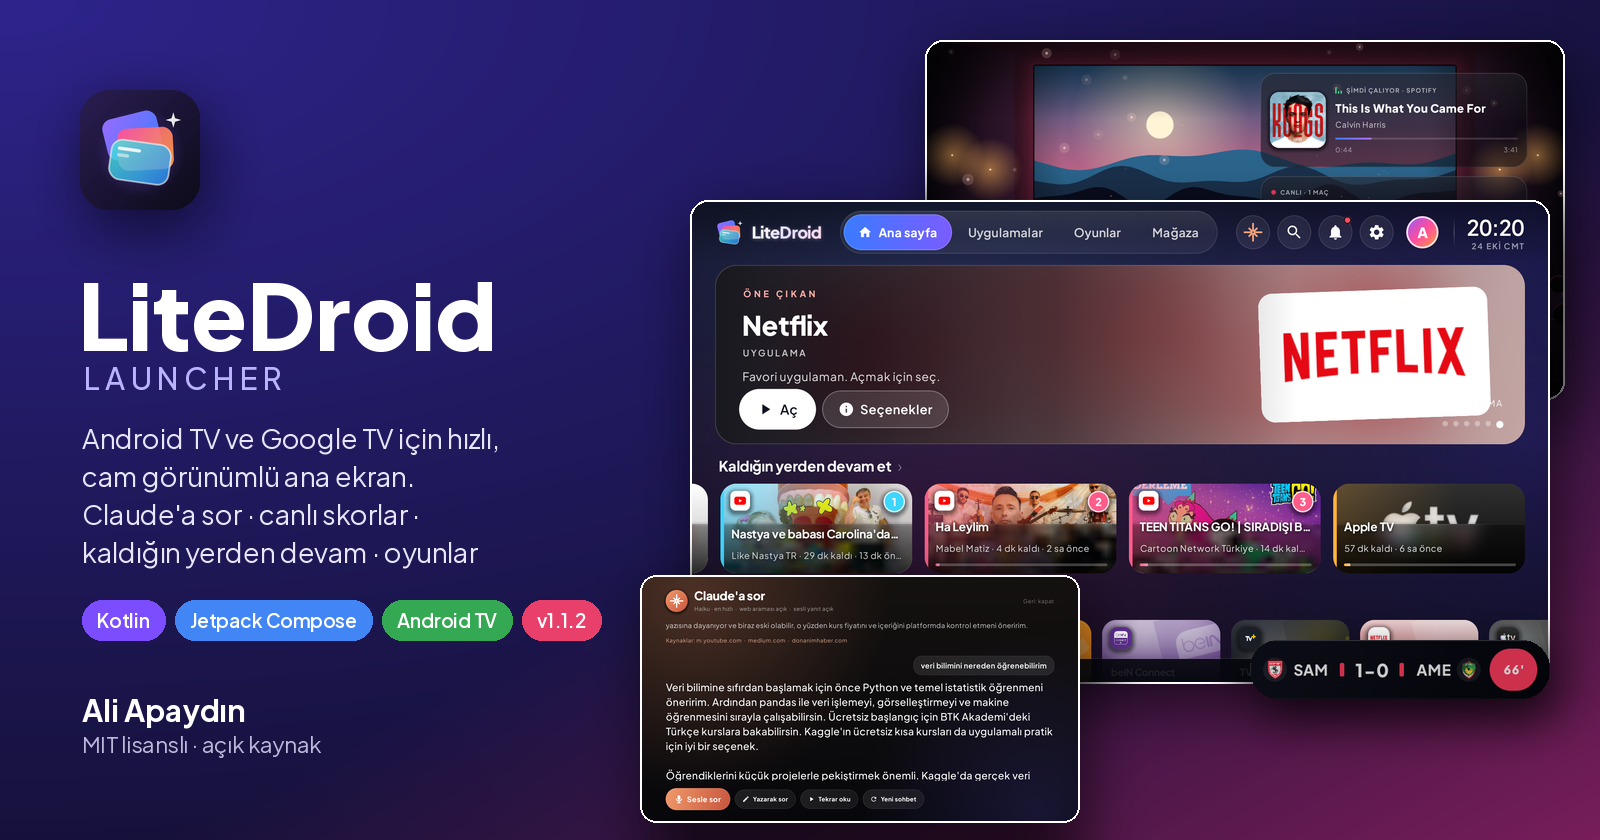
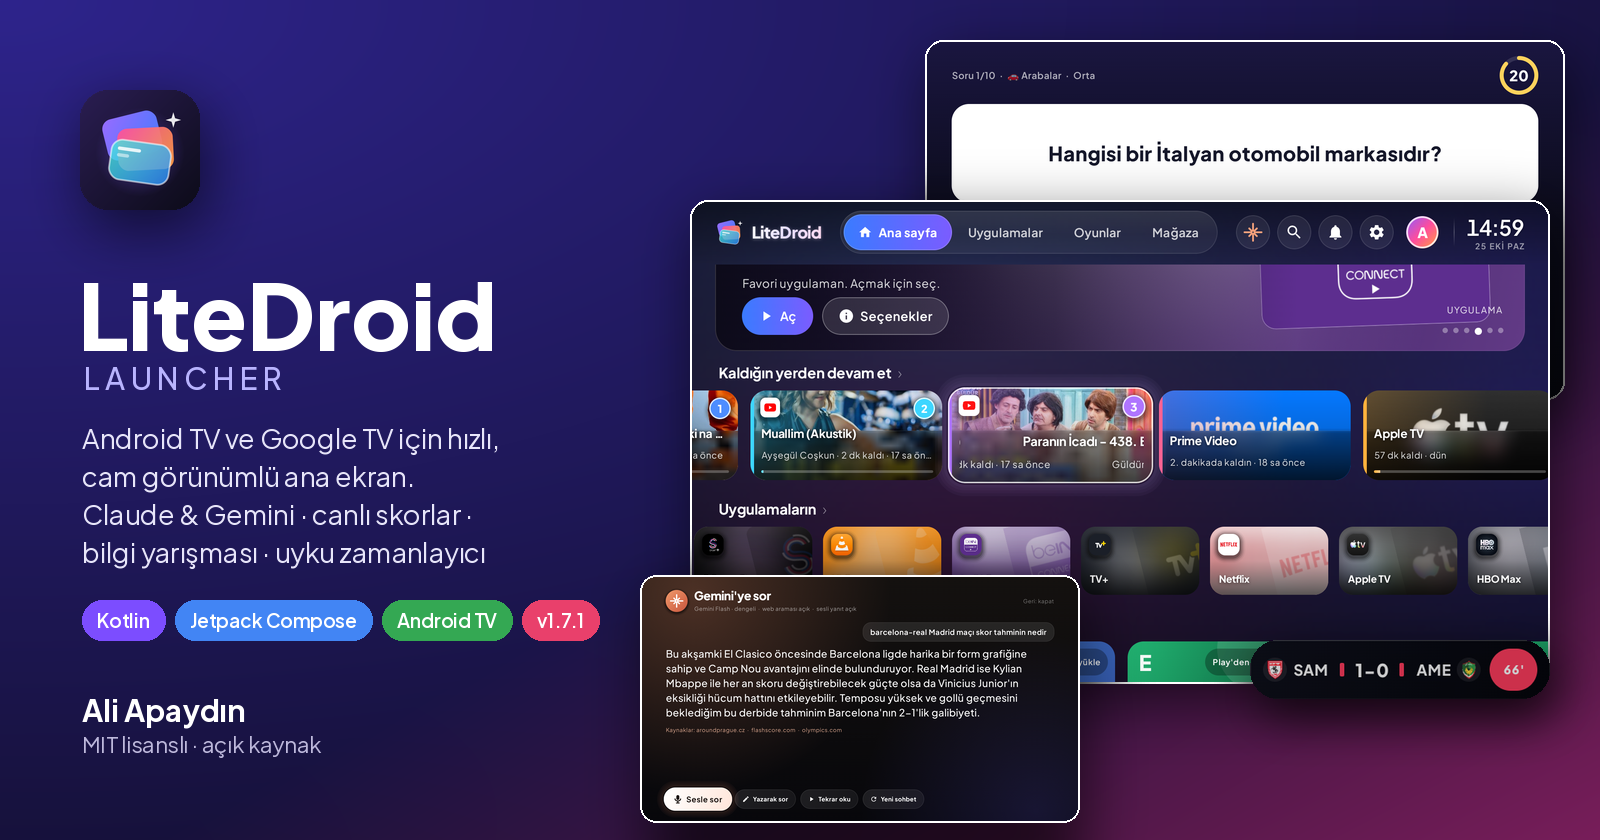
1.7.1: Gemini AQ. anahtarları, yeni ekran görüntüleri ve README (#13)
* 1.7.1 prep: accept AQ.-style Gemini keys in hints, explain ACCESS_TOKEN_TYPE_UNSUPPORTED

Claude-Session: https://claude.ai/code/session_01PQP6bMUB9xKZLXqUEF8aZa

* 1.7.1: new screenshots, hero and README sections

Claude-Session: https://claude.ai/code/session_01PQP6bMUB9xKZLXqUEF8aZa

---------

Changed region(s): [[0.4062, 0.031, 1.0, 0.9905], [0.0312, 0.5881, 0.3125, 0.681], [0.3438, 0.7119, 0.375, 0.7429]]

diff --git a/app/src/main/java/dev/litedroid/launcher/ui/HomeScreen.kt b/app/src/main/java/dev/litedroid/launcher/ui/HomeScreen.kt
@@ -961,8 +961,8 @@ private fun HomeContent(vm: LauncherViewModel) {
                             "Your key from console.anthropic.com → API Keys (sk-ant-api03-…). Typing with the remote is tedious, you can send it from a computer: $CMD_KEY",
                         )
                         TextTarget.GEMINI_KEY -> tx(
-                            "aistudio.google.com → Get API key'den aldığın anahtar (AIza…). Bilgisayardan da gönderebilirsin: $CMD_GEMINI_KEY",
-                            "Your key from aistudio.google.com → Get API key (AIza…). You can also send it from a computer: $CMD_GEMINI_KEY",
+                            "aistudio.google.com → Get API key'den aldığın anahtar (AQ.… ya da AIza… ile başlar). Bilgisayardan da gönderebilirsin: $CMD_GEMINI_KEY",
+                            "Your key from aistudio.google.com → Get API key (starts with AQ.… or AIza…). You can also send it from a computer: $CMD_GEMINI_KEY",
                         )
                         TextTarget.CLAUDE_QUESTION -> tx("Sorunu yaz, ${settings.aiProvider.label} cevaplasın", "Type your question for ${settings.aiProvider.label}")
                     },

diff --git a/app/src/main/java/dev/litedroid/launcher/data/GeminiClient.kt b/app/src/main/java/dev/litedroid/launcher/data/GeminiClient.kt
@@ -57,7 +57,12 @@ object GeminiClient {
             if (code !in 200..299) {
                 val err = runCatching { conn.errorStream?.bufferedReader()?.use { it.readText() } }.getOrNull().orEmpty()
                 val e = runCatching { JSONObject(err).getJSONObject("error") }.getOrNull()
-                val msg = e?.optString("message")?.takeIf { it.isNotBlank() } ?: "HTTP $code"
+                val msg = when {
+                    // Bazı hesaplarda yeni "AQ." anahtarlar bu uç noktada reddediliyor
+                    err.contains("ACCESS_TOKEN_TYPE_UNSUPPORTED") ->
+                        "Google bu anahtarı Gemini API için kabul etmedi (ACCESS_TOKEN_TYPE_UNSUPPORTED). AI Studio'da yeni bir anahtar oluşturup tekrar dene."
+                    else -> e?.optString("message")?.takeIf { it.isNotBlank() } ?: "HTTP $code"
+                }
                 val auth = code == 401 || code == 403 || err.contains("API_KEY_INVALID") || err.contains("API key not valid")
                 Log.w(TAG, "HTTP $code $err")
                 emit(ClaudeEvent.Failed(msg, authProblem = auth))

diff --git a/app/src/main/java/dev/litedroid/launcher/data/Changelog.kt b/app/src/main/java/dev/litedroid/launcher/data/Changelog.kt
@@ -10,6 +10,15 @@ object Changelog {
     val releases: List<Release>
         get() = listOf(
             Release(
+                "1.7.1",
+                tx("Gemini anahtarları ve yeni ekran görüntüleri", "Gemini keys and new screenshots"),
+                listOf(
+                    tx("Google'ın yeni \"AQ.\" ile başlayan Gemini anahtarları için ipuçları güncellendi, anlaşılır hata mesajı eklendi.",
+                        "Hints updated for Google's new Gemini keys starting with \"AQ.\", with a clear error message."),
+                    tx("GitHub sayfası yeni ekran görüntüleri ve kapak görseliyle güncellendi.", "The GitHub page got new screenshots and a new cover image."),
+                ),
+            ),
+            Release(
                 "1.7.0",
                 tx("Daha akıcı sesli soru ve Gemini", "Smoother voice questions and Gemini"),
                 listOf(

diff --git a/app/src/main/java/dev/litedroid/launcher/MainActivity.kt b/app/src/main/java/dev/litedroid/launcher/MainActivity.kt
@@ -48,7 +48,7 @@ class MainActivity : ComponentActivity() {
      * adb shell am start -n dev.litedroid.launcher/.MainActivity --es claude_key "sk-ant-api03-..."
      */
     private fun handleKeyIntent(intent: Intent?): Boolean {
-        // Gemini anahtarı: --es gemini_key "AIza..."
+        // Gemini anahtarı: --es gemini_key "AQ.Ab..." (ya da eski biçim "AIza...")
         intent?.getStringExtra(EXTRA_GEMINI_KEY)?.trim()?.takeIf { it.isNotEmpty() }?.let { gKey ->
             intent.removeExtra(EXTRA_GEMINI_KEY)
             viewModel.updateSettings { it.copy(geminiKey = gKey) }

diff --git a/README.md b/README.md
@@ -8,7 +8,7 @@
 </p>
 
 <p align="center">
-  <img alt="Sürüm" src="https://img.shields.io/badge/s%C3%BCr%C3%BCm-1.7.0-ff5c8a?style=for-the-badge">
+  <img alt="Sürüm" src="https://img.shields.io/badge/s%C3%BCr%C3%BCm-1.7.1-ff5c8a?style=for-the-badge">
   <img alt="Platform" src="https://img.shields.io/badge/Android%20TV%20%7C%20Google%20TV-3ddc84?style=for-the-badge&logo=androidtv&logoColor=white">
   <img alt="Kotlin" src="https://img.shields.io/badge/Kotlin-2.0-7f52ff?style=for-the-badge&logo=kotlin&logoColor=white">
   <img alt="Jetpack Compose" src="https://img.shields.io/badge/Jetpack%20Compose-4285f4?style=for-the-badge&logo=jetpackcompose&logoColor=white">
@@ -28,7 +28,7 @@
 
 LiteDroid bir hafta sonu sorusuyla başladı: *"Chromecast with Google TV'm Apple TV gibi hissettirebilir mi?"* Sonra Kotlin ve Jetpack Compose ile sıfırdan yazılmış tam bir launcher'a dönüştü.
 
-Standart ana ekranın yerine buzlu cam menüler, uygulamalar arası çalışan bir "kaldığın yerden devam et" rafı, sesle soru sorabildiğin bir yapay zekâ asistanı, maç izlerken köşede duran canlı skorlar, kumandayla oynanan oyunlar ve kodla çizilmiş bir ekran koruyucu getiriyor. Bunların hepsini mütevazı TV donanımında akıcı kalarak yapıyor.
+Standart ana ekranın yerine buzlu cam menüler, uygulamalar arası çalışan bir "kaldığın yerden devam et" rafı, sesle soru sorabildiğin bir yapay zekâ asistanı (Claude ya da Gemini), maç izlerken köşede duran canlı skorlar, telefonlarla oynanan bir bilgi yarışması, uyku zamanlayıcısı, kumandayla oynanan oyunlar ve kodla çizilmiş bir ekran koruyucu getiriyor. Bunların hepsini mütevazı TV donanımında akıcı kalarak yapıyor.
 
 ## ✨ Özellikler
 
@@ -54,22 +54,26 @@ Standart ana ekranın yerine buzlu cam menüler, uygulamalar arası çalışan b
   - YouTube videoyu **kaldığı saniyeden** açar.
   - Tam içerik bağlantısı olmayan uygulamalar **temiz bir başlangıçla** açılır, yarım kalmış bir ekrana takılmazsın.
 
-### ✨ Claude'a sor
+### ✨ Claude'a / Gemini'ye sor
 
-<p align="center"><img src="docs/screenshots/ask-claude.png" alt="Claude'a sor" width="100%"></p>
+| Konuşurken | Cevap |
+|---|---|
+| ![Dinliyor](docs/screenshots/ask-listening.png) | ![Gemini cevabı](docs/screenshots/ask-gemini.png) |
 
 - Üst bardaki ✦ düğmesine bas. Mikrofon hazır olunca **"Şimdi konuş"** yazar ve söylediklerin konuşurken ekranda canlı görünür.
 - Cevap ekranda büyük yazıyla akarak gelir. **İlk cümleden itibaren sesli okunmaya başlar**, sonuna kadar beklemez. Yeni soru sormak için bastığında önceki okuma anında durur.
 - Güncel sorularda (bu akşamın maçları, haberler, hava, vizyondaki filmler) **web'de arar** ve kullandığı **kaynakları** altta gösterir.
 - Takip soruları bağlamı korur. İstersen yazarak da sorabilirsin.
 - **Claude ya da Gemini:** İkisinin de anahtarını girip Ayarlar → Claude'a sor → Yapay zekâ'dan istediğine geçebilirsin. Claude için Haiku ya da Sonnet, Gemini için Flash-Lite ya da Flash modelini seçebilirsin.
-- Kendi Anthropic API anahtarınla çalışır. Anahtar sadece TV'de saklanır ve doğrudan `api.anthropic.com`'a gider. Kurulumu aşağıda: [Claude'a sor kurulumu](#claudea-sor-kurulumu).
+- Kendi API anahtarınla çalışır. Anahtar sadece TV'de saklanır ve doğrudan `api.anthropic.com`'a ya da Google'a gider. Kurulumu aşağıda: [Claude'a sor kurulumu](#claudea-sor-kurulumu).
 
 ### ⚽ Canlı skorlar
 
 Süper Lig, Premier League, LaLiga, Serie A, Bundesliga, Ligue 1, **Şampiyonlar Ligi, Avrupa Ligi ve Konferans Ligi** varsayılan olarak takipte. Hangi ligleri izleyeceğini ayarlardan seçersin.
 
 **Takımları seç:** Ayarlar → Canlı skorlar → Takımları seç. Her ligden yalnızca istediğin takımları takip edebilirsin, mesela Süper Lig'den Beşiktaş ve Galatasaray, LaLiga'dan Real Madrid. Tümünü seçebilir, seçimi kaldırabilir ya da tek tek seçebilirsin. Skor kartı, şerit, menü, ekran koruyucu ve gol bildirimleri sadece bu takımların maçlarını gösterir.
+
+<p align="center"><img src="docs/screenshots/teams.png" alt="Takım seçici" width="100%"></p>
 
 <p align="center"><img src="docs/screenshots/score-strip-context.png" alt="Prime Video izlerken köşedeki skor şeridi" width="80%"></p>
 
@@ -84,12 +88,16 @@ Süper Lig, Premier League, LaLiga, Serie A, Bundesliga, Ligue 1, **Şampiyonlar
 
 ### 🎛 Her uygulamanın üstünde yüzen menü
 
+<p align="center"><img src="docs/screenshots/floating-menu.png" alt="Prime Video'nun üstünde yüzen menü" width="100%"></p>
+
 - Netflix, YouTube ya da başka bir şey açıkken kumandada **Geri'ye iki kez hızlıca bas**.
 - Sağdan kayarak sade bir LiteDroid menüsü açılır. İçinde saat, hava durumu, çalan müziğin kontrolleri, uyku zamanlayıcısı, skor şeridi ayarları, bugünün maçları ve Ana ekran / Claude / Kapat kısayolları var.
 - **Tek basış normal Geri olarak çalışmaya devam eder.**
 - Bir kez açman gerekiyor: **Android Ayarları → Erişilebilirlik → LiteDroid kumanda kısayolu**. Servis yalnızca tuş basışlarını ve öndeki uygulamanın adını görür.
 
 ### 😴 Uyku zamanlayıcısı
+
+<p align="center"><img src="docs/screenshots/sleep-timer.png" alt="Uyku zamanlayıcısı kuruldu bildirimi" width="100%"></p>
 
 - Ayarlar → Uyku zamanlayıcısı'ndan **süreyle** (15–120 dk) ya da **belirli bir saatte** kapan. Yüzen menüden ve hızlı panelden de tek tuşla kurulur.
 - Kapanmaya 45, 30, 15 ve 5 dakika kala sağ altta 5 saniyelik bir uyarı çıkar.
@@ -128,6 +136,14 @@ Kahoot tarzı bir yarışma: **Oyunlar → Bilgi Yarışması**.
 - Kimin cevapladığı anlık görünür. Hızlı ve doğru cevap daha çok puan getirir, üst üste doğru bilenlere seri bonusu var.
 - Her sorudan sonra puan tablosu kayarak yeniden sıralanır, en sonda kürsü ve konfeti var.
 
+| Lobi: QR kodla katıl | Soru |
+|---|---|
+| ![Yarışma lobisi](docs/screenshots/quiz-lobby.png) | ![Soru](docs/screenshots/quiz-question.png) |
+| **Puan durumu** | **Kürsü** |
+| ![Puan durumu](docs/screenshots/quiz-board.png) | ![Kürsü](docs/screenshots/quiz-podium.png) |
+
+<p align="center"><img src="docs/screenshots/quiz-phones.png" alt="Telefondan katılma, cevap verme ve sonuç" width="85%"></p>
+
 ### 🎮 Kumandaya göre yapılmış altı oyun
 
 | Oyunlar | Yılan | Sudoku |
@@ -151,6 +167,8 @@ Google Play'den yüklediğin oyunlar altta ayrı bir rafta durur.
 
 Ayarlar solda sekmelere ayrılmıştır: **Görünüm, Profil, Hava durumu, Ses, Ekran koruyucu, Canlı skorlar, Claude'a sor, İçerik ve gizlilik** ve **Diğer**. Odaktaki satırın açıklaması altta görünür, kumandayla aradığını bulmak kolaydır. **Diğer → Sürüm notları**'nda ilk sürümden bugüne tüm yenilikler sürüm sürüm listelenir.
 
+<p align="center"><img src="docs/screenshots/release-notes.png" alt="Sürüm notları" width="100%"></p>
+
 ### 📊 Kullanım raporu
 
 **Ayarlar → İçerik ve gizlilik → Kullanım raporu** (kullanım istatistikleri izni gerekir):
@@ -158,6 +176,10 @@ Ayarlar solda sekmelere ayrılmıştır: **Görünüm, Profil, Hava durumu, Ses,
 - Uygulama sıralaması: toplam süre, yüzde payı, açılış sayısı, en uzun oturum ve son kullanım saati.
 - Saatlere göre dağılım, son 7 günün grafiği ve en yoğun saat.
 - Ana ekran ve ekran koruyucuda geçen süre sayılmaz.
+
+| Özet ve grafikler | Uygulamalar |
+|---|---|
+| ![Kullanım raporu](docs/screenshots/usage-report.png) | ![Uygulama kartları](docs/screenshots/usage-report-apps.png) |
 
 ### Ve diğerleri
 
@@ -246,9 +268,9 @@ Android TV bu izinleri arayüzünde göstermediği için bir kez adb ile verilir
    İstersen **Ayarlar → Claude'a sor → API anahtarı**'ndan da girebilirsin.
 3. Üst bardaki ✦ düğmesine bas ve sor. İlk seferde mikrofon izni sorulur, **İzin ver** de. İstersen izni komutla da verebilirsin: `adb shell pm grant dev.litedroid.launcher android.permission.RECORD_AUDIO`
 
-**Gemini kullanmak için:** [aistudio.google.com](https://aistudio.google.com) → **Get API key** ile bir anahtar al (`AIza…`). Anahtarı şu komutla gönder, sonra Ayarlar → Claude'a sor → **Yapay zekâ: Gemini** seç:
+**Gemini kullanmak için:** [aistudio.google.com](https://aistudio.google.com) → **Get API key** ile bir anahtar al. Yeni anahtarlar `AQ.` ile, eskiler `AIza` ile başlar, ikisi de çalışır. Anahtarı şu komutla gönder, sonra Ayarlar → Claude'a sor → **Yapay zekâ: Gemini** seç:
 ```bash
-adb shell am start -n dev.litedroid.launcher/.MainActivity --es gemini_key "AIza..."
+adb shell am start -n dev.litedroid.launcher/.MainActivity --es gemini_key "AQ.Ab..."
 ```
 
 > Anahtarını kimseyle paylaşma. Ekran görüntüsünde ya da bir yerde göründüyse konsoldan silip yenisini oluştur.

diff --git a/README.en.md b/README.en.md
@@ -8,7 +8,7 @@
 </p>
 
 <p align="center">
-  <img alt="Version" src="https://img.shields.io/badge/version-1.7.0-ff5c8a?style=for-the-badge">
+  <img alt="Version" src="https://img.shields.io/badge/version-1.7.1-ff5c8a?style=for-the-badge">
   <img alt="Platform" src="https://img.shields.io/badge/Android%20TV%20%7C%20Google%20TV-3ddc84?style=for-the-badge&logo=androidtv&logoColor=white">
   <img alt="Kotlin" src="https://img.shields.io/badge/Kotlin-2.0-7f52ff?style=for-the-badge&logo=kotlin&logoColor=white">
   <img alt="Jetpack Compose" src="https://img.shields.io/badge/Jetpack%20Compose-4285f4?style=for-the-badge&logo=jetpackcompose&logoColor=white">
@@ -33,8 +33,18 @@ LiteDroid started as a weekend question — *"can my Chromecast with Google TV f
 | Modern home | Apps |
 |---|---|
 | ![Modern home](docs/screenshots/modern-home.png) | ![Apps](docs/screenshots/apps.png) |
-| **Ask Claude** | **Quick panel** |
-| ![Ask Claude](docs/screenshots/ask-claude.png) | ![Quick panel](docs/screenshots/quick-panel.png) |
+| **Ask Gemini / Claude (listening)** | **Answer** |
+| ![Listening](docs/screenshots/ask-listening.png) | ![Gemini answer](docs/screenshots/ask-gemini.png) |
+| **Floating menu over Prime Video** | **Sleep timer** |
+| ![Floating menu](docs/screenshots/floating-menu.png) | ![Sleep timer](docs/screenshots/sleep-timer.png) |
+| **Quiz Night lobby** | **Quiz question** |
+| ![Quiz lobby](docs/screenshots/quiz-lobby.png) | ![Quiz question](docs/screenshots/quiz-question.png) |
+| **Leaderboard** | **Podium** |
+| ![Leaderboard](docs/screenshots/quiz-board.png) | ![Podium](docs/screenshots/quiz-podium.png) |
+| **Team picker** | **Usage report** |
+| ![Teams](docs/screenshots/teams.png) | ![Usage report](docs/screenshots/usage-report.png) |
+| **Quick panel** | **Release notes** |
+| ![Quick panel](docs/screenshots/quick-panel.png) | ![Release notes](docs/screenshots/release-notes.png) |
 | **Score strip over Prime Video** | **Screensaver widgets** |
 | ![Score strip](docs/screenshots/score-strip-context.png) | ![Screensaver](docs/screenshots/screensaver.png) |
 | **Built-in games** | **Sudoku** |

diff --git a/CHANGELOG.md b/CHANGELOG.md
@@ -1,5 +1,9 @@
 # Changelog
 
+## 1.7.1
+- Gemini keys: hints mention the new `AQ.` format (the client never checked the prefix); a readable message for `ACCESS_TOKEN_TYPE_UNSUPPORTED`.
+- README: new hero and screenshots (Gemini, listening panel, floating menu, sleep timer, team picker, usage report, release notes, Quiz Night on TV and phones).
+
 ## 1.7.0
 - **In-app voice input** (`data/VoiceListener.kt`): `SpeechRecognizer` with partial results instead of the system voice screen. A panel shows "Getting the mic ready…" → "Speak now" (on `onReadyForSpeech`) with a level meter and the live transcript; longer silence thresholds so pauses don't cut the sentence; the last partial is used if the final result is empty. Falls back to the system screen without permission or a recognition service. Needs `RECORD_AUDIO` (asked once).
 - Asking again stops the current answer and speech immediately; Back while listening cancels listening only.
